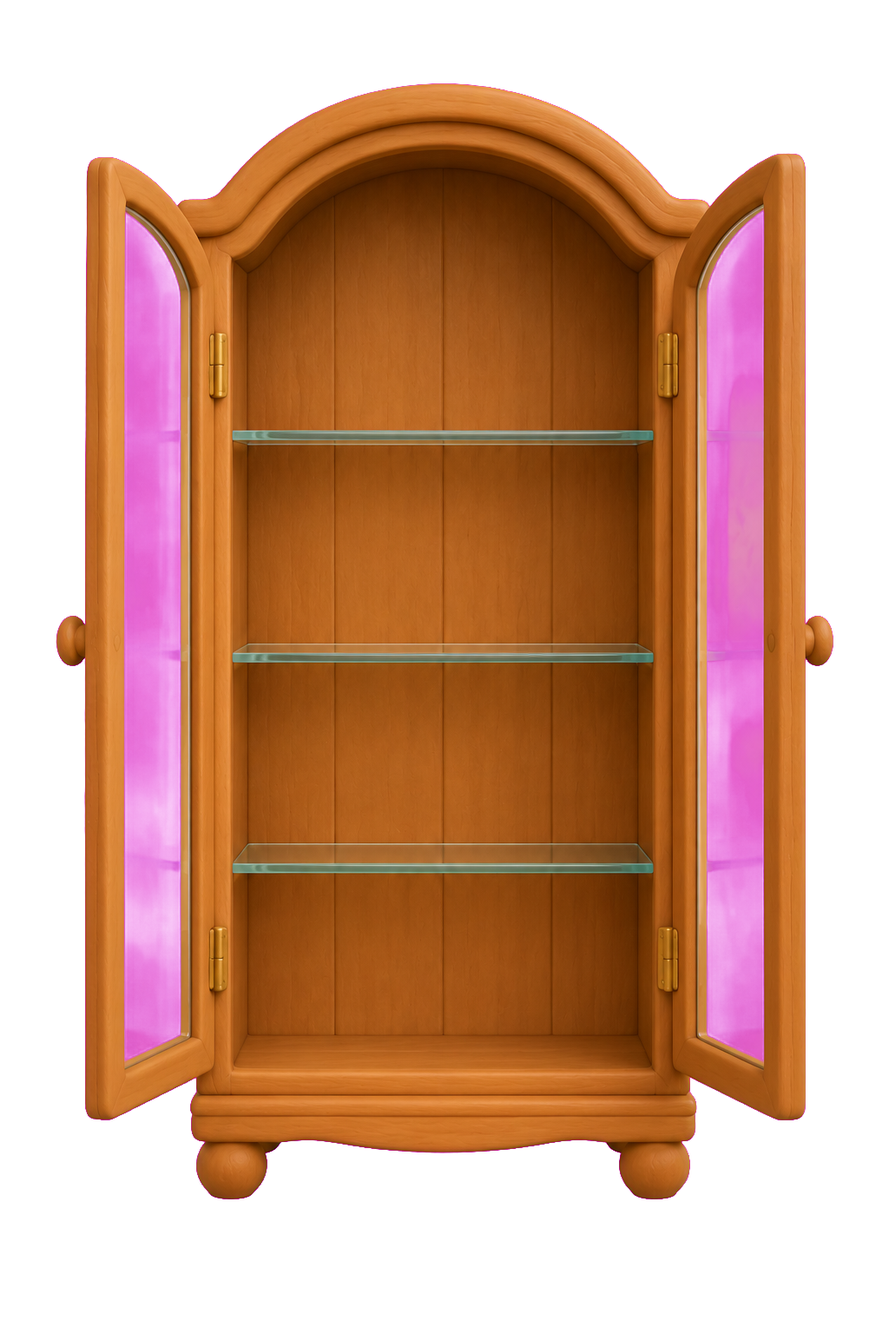
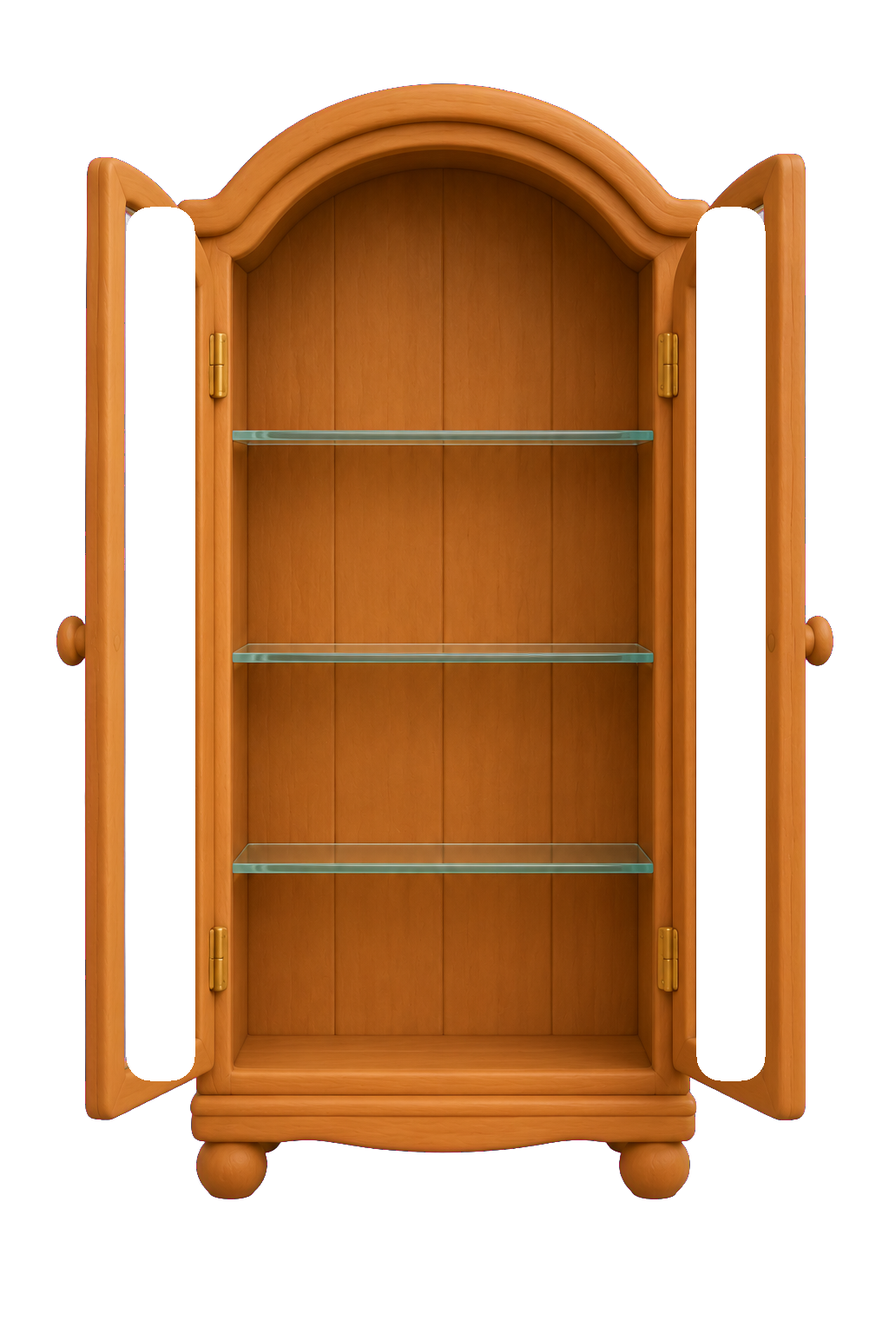
Mejora el aspecto del interior de la casa

Changed region(s): [[0.7812, 0.1562, 0.875, 0.8125], [0.125, 0.1562, 0.2188, 0.8125]]

diff --git a/src/world.js b/src/world.js
@@ -32,6 +32,10 @@
   function sky() {
     const p = phase(), [a, b] = SKY[p];
     $("#sky").style.background = `linear-gradient(${a}, ${b} 70%)`;
+    const houseView = $("#houseView"), houseSun = $("#houseWindowSun");
+    houseView.style.background = `linear-gradient(${a}, ${b} 70%)`;
+    houseSun.src = `art/valley/${p === "night" ? "moon" : "sun"}.webp`;
+    $(".houseWindowCloud").style.opacity = p === "night" ? "0.28" : "0.9";
     document.body.classList.toggle("night", p === "night");
     document.body.classList.toggle("lit", p === "night" || p === "dusk");
     const h = new Date().getHours() + new Date().getMinutes() / 60;
@@ -252,14 +256,23 @@
   const interior = $("#interior"), houseActors = $("#houseActors"), houseProps = $("#houseProps"), houseGallery = $("#houseGallery");
   let inHouse = false, houseX = 9, houseTarget = null, houseDone = null, houseWalk = false, houseLift = 0, houseScale = 1, houseClimb = null, houseSignature = "";
   const HOME_FURNITURE = [
-    { id: "bed", src: "house-bed.png", cx: 105, b: 170, w: 29, ar: 1671 / 941, kind: "floor" },
-    { id: "pot", src: "house-pot.png", cx: 249, b: 187, w: 8, ar: 1374 / 1145, kind: "floor" },
-    { id: "rug", src: "house-rug.png", cx: 197, b: 184, w: 34, ar: 2243 / 701, kind: "rug" },
-    { id: "curtains", src: "house-curtains.png", cx: 284, t: 31, w: 29, ar: 1536 / 1024, kind: "wall" },
-    { id: "lamp", src: "house-lamp.png", cx: 182, b: 151, w: 7, ar: 1024 / 1536, kind: "floor" },
-    { id: "cabinet", src: "house-cabinet.png", cx: 320, b: 189, w: 18, ar: 1024 / 1536, kind: "floor" },
-    { id: "trophy", src: "house-trophy.png", cx: 320, b: 189, w: 5.4, ar: 1199 / 1312, kind: "wall" },
+    { id: "bed", src: "house-bed.png", cx: 105, b: 170, w: 26, ar: 1671 / 941, kind: "floor" },
+    { id: "pot", src: "house-pot.png", cx: 178, b: 187, w: 6, ar: 1374 / 1145, kind: "floor" },
+    { id: "rug", src: "house-rug.png", cx: 197, b: 184, w: 29, ar: 2243 / 701, kind: "rug" },
+    { id: "curtains", src: "house-curtains.png", cx: 284, t: 31, w: 25, ar: 1536 / 1024, kind: "wall" },
+    { id: "lamp", src: "house-lamp.png", cx: 157, b: 151, w: 6, ar: 1024 / 1536, kind: "floor" },
+    { id: "cabinet", src: "house-cabinet.png", cx: 296, b: 189, w: 15, ar: 1024 / 1536, kind: "floor" },
+    { id: "trophy", src: "house-trophy.png", cx: 296, b: 189, w: 4.2, ar: 1199 / 1312, kind: "wall" },
   ];
+  function houseItemX(id) {
+    const d = HOME_FURNITURE.find((v) => v.id === id), p = (roomData().pos || {})[id] || {};
+    let x = d.kind === "wall" ? roomWallX(p.cx == null ? d.cx : p.cx) : roomX(p.cx == null ? d.cx : p.cx);
+    if (id === "rug") x = Math.min(x, 47);
+    if (id === "lamp") x = Math.min(x, 43);
+    if (id === "pot") x = Math.min(x, 62);
+    if (id === "cabinet") x = Math.min(x, 74);
+    return x;
+  }
   const HOUSE_PICS = [
     { id: "portrait", name: "Retrato", src: "art/pic-portrait.webp", origin: "Me llegó en un paquete cuando construimos la casa." },
     { id: "sprout", name: "El brote", src: "art/pic-sprout.webp", origin: "Lo conseguí cuando empezó a crecer nuestro primer brote." },
@@ -297,7 +310,7 @@
   ].map(([id, name, src, origin, rank]) => ({ id, name, src, origin, rank }));
   const EH = () => U(160);                                   // alto de Eko en el valle
   function placeEko() {
-    const h = EH(), w = h * 240 / 310;
+    const h = inHouse ? U(205) : EH(), w = h * 240 / 310;
     svg.style.width = w + "px"; svg.style.height = h + "px";
     eko.style.width = w + "px"; eko.style.height = h + "px";
   }
@@ -347,7 +360,7 @@
     const el = document.createElement("button"); el.type = "button"; el.className = "house-memento"; el.dataset.houseId = "sv:" + item.id; el.setAttribute("aria-label", item.name);
     const img = document.createElement("img"); img.src = item.src; img.alt = ""; img.draggable = false; el.appendChild(img);
     const row = Math.floor(i / 3), col = i % 3;
-    Object.assign(el.style, { left: cabinetBox.x + cabinetBox.w * (0.39 + col * 0.12) - W * 0.011 + "px", top: cabinetBox.y + cabinetBox.h * ([0.36, 0.61, 0.85][row]) - W * 0.026 + "px", width: W * 0.022 + "px", height: W * 0.022 + "px", zIndex: 16 });
+    Object.assign(el.style, { left: cabinetBox.x + cabinetBox.w * ([0.34, 0.5, 0.66][col]) - W * 0.009 + "px", top: cabinetBox.y + cabinetBox.h * ([0.32, 0.49, 0.66][row]) - W * 0.018 + "px", width: W * 0.018 + "px", height: W * 0.018 + "px", zIndex: 16 });
     houseProps.appendChild(el);
   }
   function makeGalleryButton(item, type) {
@@ -369,7 +382,13 @@
     const items = {};
     if (c.built) for (const d of HOME_FURNITURE) {
       if (!got.has(d.id) || off[d.id] || d.id === "trophy") continue;
-      const p = pos[d.id] || {}, x = d.kind === "wall" ? roomWallX(p.cx == null ? d.cx : p.cx) : roomX(p.cx == null ? d.cx : p.cx), bottom = roomBottom(p.b == null ? d.b : p.b), top = roomTop(p.t == null ? d.t : p.t);
+      const p = pos[d.id] || {}, savedX = p.cx == null ? d.cx : p.cx;
+      let x = d.kind === "wall" ? roomWallX(savedX) : roomX(savedX);
+      if (d.id === "rug") x = Math.min(x, 47);
+      if (d.id === "lamp") x = Math.min(x, 43);
+      if (d.id === "pot") x = Math.min(x, 62);
+      if (d.id === "cabinet") x = Math.min(x, 74);
+      const bottom = roomBottom(p.b == null ? d.b : p.b), top = roomTop(p.t == null ? d.t : p.t);
       const color = colors[d.id] || 0;
       items[d.id] = houseAsset(d.id, "house-" + d.id + ".png", x, d.w, d.ar, d.kind, { bottom: d.kind === "wall" ? null : bottom, top: d.kind === "wall" ? top : null, color, z: d.kind === "wall" ? 3 : d.id === "rug" ? 2 : 5 });
     }
@@ -381,11 +400,11 @@
     }
     const picById = new Map(HOUSE_PICS.map((p) => [p.id, p]));
     const hung = Array.isArray(c.hung) ? c.hung : c.pic ? [c.pic] : [];
-    const slots = [{ id: "frame", cx: 203, t: 24 }, { id: "pic1", cx: 120, t: 30 }, { id: "pic2", cx: 334, t: 26 }];
+    const slots = [{ id: "frame", cx: 145, t: 25 }, { id: "pic1", cx: 365, t: 25 }, { id: "pic2", cx: 385, t: 61 }];
     for (let i = 0; i < Math.min(3, hung.length); i++) {
       const pic = picById.get(hung[i]); if (!pic || !got.has("pic:" + pic.id)) continue;
-      const p = pos[slots[i].id] || {}, cx = roomWallX(p.cx == null ? slots[i].cx : p.cx), top = roomTop(p.t == null ? slots[i].t : p.t);
-      pictureAsset(pic, i, cx, top, 10.5);
+      const cx = roomWallX(slots[i].cx), top = roomTop(slots[i].t);
+      pictureAsset(pic, i, cx, top, 7.8);
     }
     const cabinet = items.cabinet;
     if (cabinet) {
@@ -407,16 +426,16 @@
   function openGallery() { renderGallery(); houseGallery.classList.add("on"); }
   function moveHouseTo(x, done) { houseTarget = clamp(x, 7, 94); houseDone = done || null; }
   function explainHouseItem(id) {
-    if (id === "cabinet") { moveHouseTo(roomX((roomData().pos || {}).cabinet?.cx || 320), openGallery); return; }
-    if (id === "bed") { moveHouseTo(roomX((roomData().pos || {}).bed?.cx || 105), () => say(pick(["Qué bien se está en mi camita", "Aquí me echo una siestecita", "Mi rincón favorito para descansar"]), 2400)); return; }
-    if (id === "lamp") { moveHouseTo(roomX((roomData().pos || {}).lamp?.cx || 182), () => say(pick(["Esta luz es perfecta para leer", "Me encanta mi lamparita", "Qué acogedor queda este rincón"]), 2200)); return; }
-    if (id === "pot") { moveHouseTo(roomX((roomData().pos || {}).pot?.cx || 249), () => say(pick(["Mi plantita está preciosa", "Hay que acordarse de regarla", "Las hojas nuevas son una monada"]), 2200)); return; }
-    if (id === "rug") { moveHouseTo(roomX((roomData().pos || {}).rug?.cx || 197), () => say("Esta alfombra es muy suave", 2000)); return; }
-    if (id === "curtains") { moveHouseTo(roomX((roomData().pos || {}).curtains?.cx || 284), () => say("Desde aquí entra una luz preciosa", 2200)); return; }
-    if (id === "trophy") { moveHouseTo(roomX((roomData().pos || {}).cabinet?.cx || 320), () => say("Mi trofeo, me acuerdo de cómo lo ganamos", 2300)); return; }
+    if (id === "cabinet") { moveHouseTo(houseItemX("cabinet"), openGallery); return; }
+    if (id === "bed") { moveHouseTo(houseItemX("bed"), () => say(pick(["Qué bien se está en mi camita", "Aquí me echo una siestecita", "Mi rincón favorito para descansar"]), 2400)); return; }
+    if (id === "lamp") { moveHouseTo(houseItemX("lamp"), () => say(pick(["Esta luz es perfecta para leer", "Me encanta mi lamparita", "Qué acogedor queda este rincón"]), 2200)); return; }
+    if (id === "pot") { moveHouseTo(houseItemX("pot"), () => say(pick(["Mi plantita está preciosa", "Hay que acordarse de regarla", "Las hojas nuevas son una monada"]), 2200)); return; }
+    if (id === "rug") { moveHouseTo(houseItemX("rug"), () => say("Esta alfombra es muy suave", 2000)); return; }
+    if (id === "curtains") { moveHouseTo(houseItemX("curtains"), () => say("Desde aquí entra una luz preciosa", 2200)); return; }
+    if (id === "trophy") { moveHouseTo(houseItemX("cabinet"), () => say("Mi trofeo, me acuerdo de cómo lo ganamos", 2300)); return; }
     if (id.startsWith("sv:")) {
       const item = HOUSE_SOUVENIRS.find((v) => v.id === id.slice(3)); if (!item) return;
-      moveHouseTo(roomX((roomData().pos || {}).cabinet?.cx || 320), () => say(`Me acuerdo de ${item.name}. ${item.origin}`, 3000)); return;
+      moveHouseTo(houseItemX("cabinet"), () => say(`Me acuerdo de ${item.name}. ${item.origin}`, 3000)); return;
     }
     if (id.startsWith("picture:")) {
       const pic = HOUSE_PICS.find((p) => p.id === id.slice(8)); if (!pic) return;
@@ -430,7 +449,7 @@
   function exitHouse() {
     if (!inHouse || houseTarget != null || houseClimb) return;
     moveHouseTo(7.5, () => {
-      inHouse = false; houseTarget = null; houseDone = null; houseGallery.classList.remove("on"); document.body.classList.remove("in-house"); interior.classList.remove("on");
+      inHouse = false; placeEko(); houseTarget = null; houseDone = null; houseGallery.classList.remove("on"); document.body.classList.remove("in-house"); interior.classList.remove("on");
       box.append(eko, bub, shd); E.x = house.ux - 560 * 1102 / 971 * 0.18; E.tx = null; E.then = null; E.entering = E.t; houseSignature = "";
       say(pick(["Ya estamos otra vez en el valle", "¡Qué bien se está en casa! ¿Paseamos?", "Vamos a dar una vuelta por el valle"]), 2500);
     });
@@ -459,7 +478,7 @@
     E.tx = null; E.then = null; E.exiting = E.t;
     say(pick(["¡A casa!", "Hogar, dulce hogar", "Vamos para dentro"]), 1400);
     setTimeout(() => {
-      E.exiting = 0; E.x = house.ux - 560 * 1102 / 971 * 0.18; inHouse = true; houseX = 8.5; houseTarget = null; houseDone = null; houseClimb = null;
+      E.exiting = 0; E.x = house.ux - 560 * 1102 / 971 * 0.18; inHouse = true; placeEko(); houseX = 8.5; houseTarget = null; houseDone = null; houseClimb = null;
       houseActors.append(eko, bub, shd); document.body.classList.add("in-house"); interior.classList.add("on"); renderHouse(true);
     }, 720);
   }
@@ -501,13 +520,13 @@
     E.ph += dt * (walking ? 9 : 0);
     if (inGarden() !== E.inG) { E.inG = inGarden(); if (E.inG && E.t > 2) { say(GD.seen ? pick(GL.hello) : `¡Mira! ¡Detrás de la niebla había un huerto! Será nuestro`, 3200); if (!GD.seen) { GD.seen = true; gSave(); } } }
     // Eko: pasea por el valle o por la habitación a pantalla completa.
-    const h = EH(), w = h * 240 / 310;
+    const h = inHouse ? U(205) : EH(), w = h * 240 / 310;
     let y = PATH(), sc = 1, op = 1;
     if (E.entering) { const q = clamp((E.t - E.entering) / 1.1, 0, 1); y = lerp(BACK() - U(6), PATH(), q); sc = lerp(0.82, 1, q); op = Math.min(1, q * 3); if (q >= 1) E.entering = 0; }
     if (E.exiting) { const q = clamp((E.t - E.exiting) / 1.1, 0, 1); y = lerp(PATH(), BACK() - U(6), q); sc = lerp(1, 0.82, q); op = 1 - clamp((q - 0.6) / 0.4, 0, 1); }
     const bob = walking ? Math.abs(Math.sin(E.ph)) * U(6) : Math.sin(E.t * 2) * U(1.5);
     if (inHouse) {
-      const floor = H * 0.91 + houseLift, hb = walking ? Math.abs(Math.sin(E.ph)) * U(5) : Math.sin(E.t * 2) * U(1.5);
+      const floor = H * 0.86 + houseLift, hb = walking ? Math.abs(Math.sin(E.ph)) * U(5) : Math.sin(E.t * 2) * U(1.5);
       Object.assign(eko.style, { left: W * houseX / 100 - (w * houseScale) / 2 + "px", top: floor - h * houseScale - hb + "px", transform: `scale(${houseScale})`, transformOrigin: "50% 100%", opacity: 1, zIndex: 8 });
       Object.assign(shd.style, { left: W * houseX / 100 - w * 0.42 + "px", top: floor - U(9) + "px", width: w * 0.84 + "px", height: U(18) + "px", opacity: 0.72 - Math.max(0, -houseLift / H) });
       Object.assign(bub.style, { left: W * houseX / 100 + "px", top: floor - h * houseScale - U(14) + "px", zIndex: 45 });

diff --git a/src/world.html b/src/world.html
@@ -56,32 +56,41 @@ body.night #sun{animation:none}
 #interior{position:fixed;inset:0;z-index:60;display:none;overflow:hidden;background:transparent}
 #interior.on{display:block;animation:houseIn .65s ease-out both}
 @keyframes houseIn{from{opacity:0;transform:scale(1.025)}to{opacity:1;transform:none}}
-#houseRoom{position:absolute;inset:0;width:100%;height:100%;object-fit:fill;pointer-events:none;user-select:none}
-#houseWallTint,#houseFloorTint{position:absolute;inset:0;pointer-events:none;mix-blend-mode:multiply;mask-image:url(art/house-room.png);mask-mode:alpha;mask-size:100% 100%;-webkit-mask-image:url(art/house-room.png);-webkit-mask-size:100% 100%}
+#houseView{position:absolute;left:39.7%;top:15.6%;width:20.6%;height:38.3%;overflow:hidden;z-index:0;background:#9CC9EE;transition:background 2s;clip-path:inset(0 round 46% 46% 2% 2% / 28% 28% 2% 2%)}
+#houseViewFar,#houseViewMid{position:absolute;left:-4%;right:-4%;background-repeat:repeat-x;background-position:center bottom;pointer-events:none}
+#houseViewFar{bottom:20%;height:46%;background-image:url(art/valley/hills-far.webp);background-size:auto 100%;opacity:.82}
+#houseViewMid{bottom:0;height:45%;background-image:url(art/valley/hills-mid.webp);background-size:auto 100%}
+#houseWindowSun{position:absolute;left:65%;top:9%;width:22%;aspect-ratio:1;object-fit:contain;filter:drop-shadow(0 0 9px rgba(255,214,120,.5));animation:houseSun 70s linear infinite}
+@keyframes houseSun{50%{transform:translate(-8px,4px)}}
+.houseWindowCloud{position:absolute;left:4%;top:10%;width:37%;height:auto;opacity:.88;filter:drop-shadow(0 2px 2px rgba(90,130,170,.2));animation:houseCloud 32s ease-in-out infinite alternate}
+@keyframes houseCloud{to{transform:translateX(20px)}}
+body.night #houseView{filter:brightness(.57) saturate(.8)}
+#houseRoom{position:absolute;inset:0;z-index:1;width:100%;height:100%;object-fit:fill;pointer-events:none;user-select:none}
+#houseWallTint,#houseFloorTint{position:absolute;inset:0;z-index:2;pointer-events:none;mix-blend-mode:multiply;mask-image:url(art/house-room.png);mask-mode:alpha;mask-size:100% 100%;-webkit-mask-image:url(art/house-room.png);-webkit-mask-size:100% 100%}
 #houseWallTint{clip-path:inset(0 0 24% 0);-webkit-clip-path:inset(0 0 24% 0)}
 #houseFloorTint{clip-path:inset(76% 0 0 0);-webkit-clip-path:inset(76% 0 0 0)}
-#houseProps{position:absolute;inset:0;pointer-events:none}
+#houseProps{position:absolute;inset:0;z-index:3;pointer-events:none}
 .house-item{position:absolute;display:block;border:0;padding:0;background:transparent;pointer-events:auto;cursor:pointer;transform:translateX(-50%);transform-origin:50% 100%}
 .house-item img{display:block;width:100%;height:100%;object-fit:fill;pointer-events:none;user-select:none}
 .house-item.floor{filter:drop-shadow(0 7px 7px rgba(70,45,25,.18))}
 .house-item.rug{filter:drop-shadow(0 4px 4px rgba(70,45,25,.15))}
 .house-item.wall{filter:drop-shadow(0 5px 7px rgba(60,35,20,.2))}
-.house-frame{position:absolute;pointer-events:auto;cursor:pointer;transform:translateX(-50%);filter:drop-shadow(0 5px 7px rgba(60,35,20,.2))}
+.house-frame{position:absolute;border:0;padding:0;background:transparent;appearance:none;pointer-events:auto;cursor:pointer;transform:translateX(-50%);filter:drop-shadow(0 5px 7px rgba(60,35,20,.2))}
 .house-frame img{position:absolute;inset:0;width:100%;height:100%;object-fit:fill;pointer-events:none}
 .house-frame .art{inset:19% 21%;width:58%;height:62%;object-fit:cover}
 .house-memento{position:absolute;display:grid;place-items:center;border:0;padding:0;background:transparent;cursor:pointer;pointer-events:auto;filter:drop-shadow(0 2px 2px rgba(60,35,20,.35))}
 .house-memento img{width:100%;height:100%;object-fit:contain;pointer-events:none}
-#houseActors{position:absolute;inset:0;pointer-events:none}
+#houseActors{position:absolute;inset:0;z-index:8;pointer-events:none}
 #houseActors #eko{z-index:8;pointer-events:auto}
 #houseActors #ekoShadow{z-index:7}
 #houseActors #bub{z-index:10}
 #houseExit{position:absolute;left:2.2%;top:52%;width:7.5%;height:30%;border:0;background:transparent;cursor:pointer;z-index:9;opacity:0}
 #houseExit:focus-visible,#houseStairs:focus-visible{outline:3px solid #fff;outline-offset:3px;opacity:.7}
-#houseStairs{position:absolute;right:3.2%;bottom:23%;width:21%;height:44%;border:0;padding:0;background:transparent;cursor:pointer;z-index:5}
-#houseStairs .step{position:absolute;left:5%;bottom:0;width:74%;height:12%;border-radius:10px 5px 2px 2px;background:linear-gradient(155deg,#dbad78,#b47a4c);border:2px solid #9a6b42;box-shadow:inset 0 4px 0 rgba(255,238,200,.35),0 3px 5px rgba(50,30,20,.16)}
-#houseStairs .step:nth-child(2){transform:translate(11%,-62%)}#houseStairs .step:nth-child(3){transform:translate(22%,-124%)}#houseStairs .step:nth-child(4){transform:translate(33%,-186%)}#houseStairs .step:nth-child(5){transform:translate(44%,-248%)}#houseStairs .step:nth-child(6){transform:translate(55%,-310%)}
-#houseStairs .rail{position:absolute;left:10%;bottom:14%;width:76%;height:7%;border-radius:12px;background:#9a6b42;transform:rotate(-38deg);transform-origin:left center;box-shadow:0 3px 4px rgba(50,30,20,.2)}
-#houseStairs .landing{position:absolute;right:0;top:1%;width:30%;height:52%;border:5px solid #9a6b42;border-radius:20px 20px 7px 7px;background:linear-gradient(90deg,#bd8958,#dda97a 45%,#af7548);box-shadow:inset 5px 0 rgba(255,228,185,.3),0 5px 9px rgba(50,30,20,.18)}
+#houseStairs{position:absolute;right:2.4%;bottom:21.5%;width:14.5%;height:42%;border:0;padding:0;background:transparent;cursor:pointer;z-index:5}
+#houseStairs .step{position:absolute;left:0;bottom:0;width:72%;height:11%;border-radius:9px 4px 2px 2px;background:linear-gradient(155deg,#dbad78,#b47a4c);border:2px solid #9a6b42;box-shadow:inset 0 4px 0 rgba(255,238,200,.35),0 3px 5px rgba(50,30,20,.16)}
+#houseStairs .step:nth-child(2){transform:translate(14%,-52%)}#houseStairs .step:nth-child(3){transform:translate(28%,-104%)}#houseStairs .step:nth-child(4){transform:translate(42%,-156%)}#houseStairs .step:nth-child(5){transform:translate(56%,-208%)}#houseStairs .step:nth-child(6){transform:translate(70%,-260%)}
+#houseStairs .rail{position:absolute;left:7%;bottom:14%;width:78%;height:6%;border-radius:12px;background:#9a6b42;transform:rotate(-37deg);transform-origin:left center;box-shadow:0 3px 4px rgba(50,30,20,.2)}
+#houseStairs .landing{position:absolute;right:0;top:0;width:31%;height:45%;border:5px solid #9a6b42;border-radius:20px 20px 7px 7px;background:linear-gradient(90deg,#bd8958,#dda97a 45%,#af7548);box-shadow:inset 5px 0 rgba(255,228,185,.3),0 5px 9px rgba(50,30,20,.18)}
 #houseStairs .landing:after{content:"";position:absolute;left:14%;right:14%;top:12%;bottom:9%;border:3px solid rgba(121,77,45,.55);border-radius:12px 12px 4px 4px}
 #houseGallery{position:absolute;inset:8% 12%;z-index:20;display:none;overflow:auto;padding:3.5rem 2rem 2rem;border:10px solid #9a6b42;border-radius:32px;background:rgba(250,244,232,.97);box-shadow:0 18px 60px rgba(45,30,20,.4);grid-template-columns:repeat(auto-fill,minmax(105px,1fr));gap:18px;align-content:start}
 #houseGallery.on{display:grid}
@@ -95,7 +104,7 @@ body.in-house #back,body.in-house #title{display:none}
 <div class="layer" id="far"></div><div class="layer" id="mid"></div>
 <div class="layer" id="ground"></div>
 <div id="world"><div id="backL"></div><div id="ekoBox"></div><div id="frontL"></div></div>
-<div id="interior" aria-label="Interior de la casa"><img id="houseRoom" src="art/house-room.png" alt="" draggable="false"><div id="houseWallTint"></div><div id="houseFloorTint"></div><div id="houseProps"></div><button id="houseExit" aria-label="Salir al valle por la puerta"></button><button id="houseStairs" aria-label="Subir las escaleras"><span class="step"></span><span class="step"></span><span class="step"></span><span class="step"></span><span class="step"></span><span class="step"></span><span class="rail"></span><span class="landing"></span></button><div id="houseGallery" aria-label="Recuerdos y cuadros"></div><button id="houseGalleryClose" aria-label="Cerrar vitrina">×</button><div id="houseActors"></div></div>
+<div id="interior" aria-label="Interior de la casa"><div id="houseView" aria-hidden="true"><img id="houseWindowSun" src="art/valley/sun.webp" alt=""><img class="houseWindowCloud" src="art/valley/cloud.webp" alt=""><div id="houseViewFar"></div><div id="houseViewMid"></div></div><img id="houseRoom" src="art/house-room.png" alt="" draggable="false"><div id="houseWallTint"></div><div id="houseFloorTint"></div><div id="houseProps"></div><button id="houseExit" aria-label="Salir al valle por la puerta"></button><button id="houseStairs" aria-label="Subir las escaleras"><span class="step"></span><span class="step"></span><span class="step"></span><span class="step"></span><span class="step"></span><span class="step"></span><span class="rail"></span><span class="landing"></span></button><div id="houseGallery" aria-label="Recuerdos y cuadros"></div><button id="houseGalleryClose" aria-label="Cerrar vitrina">×</button><div id="houseActors"></div></div>
 <button id="back">← Volver a casa</button><div id="title"></div><div id="cover"></div>
 <div id="ekoTpl" style="display:none">
     <svg id="mochi" viewBox="-120 -125 240 310" aria-label="Eko">

diff --git a/tools/world.tpl.html b/tools/world.tpl.html
@@ -56,32 +56,41 @@ body.night #sun{animation:none}
 #interior{position:fixed;inset:0;z-index:60;display:none;overflow:hidden;background:transparent}
 #interior.on{display:block;animation:houseIn .65s ease-out both}
 @keyframes houseIn{from{opacity:0;transform:scale(1.025)}to{opacity:1;transform:none}}
-#houseRoom{position:absolute;inset:0;width:100%;height:100%;object-fit:fill;pointer-events:none;user-select:none}
-#houseWallTint,#houseFloorTint{position:absolute;inset:0;pointer-events:none;mix-blend-mode:multiply;mask-image:url(art/house-room.png);mask-mode:alpha;mask-size:100% 100%;-webkit-mask-image:url(art/house-room.png);-webkit-mask-size:100% 100%}
+#houseView{position:absolute;left:39.7%;top:15.6%;width:20.6%;height:38.3%;overflow:hidden;z-index:0;background:#9CC9EE;transition:background 2s;clip-path:inset(0 round 46% 46% 2% 2% / 28% 28% 2% 2%)}
+#houseViewFar,#houseViewMid{position:absolute;left:-4%;right:-4%;background-repeat:repeat-x;background-position:center bottom;pointer-events:none}
+#houseViewFar{bottom:20%;height:46%;background-image:url(art/valley/hills-far.webp);background-size:auto 100%;opacity:.82}
+#houseViewMid{bottom:0;height:45%;background-image:url(art/valley/hills-mid.webp);background-size:auto 100%}
+#houseWindowSun{position:absolute;left:65%;top:9%;width:22%;aspect-ratio:1;object-fit:contain;filter:drop-shadow(0 0 9px rgba(255,214,120,.5));animation:houseSun 70s linear infinite}
+@keyframes houseSun{50%{transform:translate(-8px,4px)}}
+.houseWindowCloud{position:absolute;left:4%;top:10%;width:37%;height:auto;opacity:.88;filter:drop-shadow(0 2px 2px rgba(90,130,170,.2));animation:houseCloud 32s ease-in-out infinite alternate}
+@keyframes houseCloud{to{transform:translateX(20px)}}
+body.night #houseView{filter:brightness(.57) saturate(.8)}
+#houseRoom{position:absolute;inset:0;z-index:1;width:100%;height:100%;object-fit:fill;pointer-events:none;user-select:none}
+#houseWallTint,#houseFloorTint{position:absolute;inset:0;z-index:2;pointer-events:none;mix-blend-mode:multiply;mask-image:url(art/house-room.png);mask-mode:alpha;mask-size:100% 100%;-webkit-mask-image:url(art/house-room.png);-webkit-mask-size:100% 100%}
 #houseWallTint{clip-path:inset(0 0 24% 0);-webkit-clip-path:inset(0 0 24% 0)}
 #houseFloorTint{clip-path:inset(76% 0 0 0);-webkit-clip-path:inset(76% 0 0 0)}
-#houseProps{position:absolute;inset:0;pointer-events:none}
+#houseProps{position:absolute;inset:0;z-index:3;pointer-events:none}
 .house-item{position:absolute;display:block;border:0;padding:0;background:transparent;pointer-events:auto;cursor:pointer;transform:translateX(-50%);transform-origin:50% 100%}
 .house-item img{display:block;width:100%;height:100%;object-fit:fill;pointer-events:none;user-select:none}
 .house-item.floor{filter:drop-shadow(0 7px 7px rgba(70,45,25,.18))}
 .house-item.rug{filter:drop-shadow(0 4px 4px rgba(70,45,25,.15))}
 .house-item.wall{filter:drop-shadow(0 5px 7px rgba(60,35,20,.2))}
-.house-frame{position:absolute;pointer-events:auto;cursor:pointer;transform:translateX(-50%);filter:drop-shadow(0 5px 7px rgba(60,35,20,.2))}
+.house-frame{position:absolute;border:0;padding:0;background:transparent;appearance:none;pointer-events:auto;cursor:pointer;transform:translateX(-50%);filter:drop-shadow(0 5px 7px rgba(60,35,20,.2))}
 .house-frame img{position:absolute;inset:0;width:100%;height:100%;object-fit:fill;pointer-events:none}
 .house-frame .art{inset:19% 21%;width:58%;height:62%;object-fit:cover}
 .house-memento{position:absolute;display:grid;place-items:center;border:0;padding:0;background:transparent;cursor:pointer;pointer-events:auto;filter:drop-shadow(0 2px 2px rgba(60,35,20,.35))}
 .house-memento img{width:100%;height:100%;object-fit:contain;pointer-events:none}
-#houseActors{position:absolute;inset:0;pointer-events:none}
+#houseActors{position:absolute;inset:0;z-index:8;pointer-events:none}
 #houseActors #eko{z-index:8;pointer-events:auto}
 #houseActors #ekoShadow{z-index:7}
 #houseActors #bub{z-index:10}
 #houseExit{position:absolute;left:2.2%;top:52%;width:7.5%;height:30%;border:0;background:transparent;cursor:pointer;z-index:9;opacity:0}
 #houseExit:focus-visible,#houseStairs:focus-visible{outline:3px solid #fff;outline-offset:3px;opacity:.7}
-#houseStairs{position:absolute;right:3.2%;bottom:23%;width:21%;height:44%;border:0;padding:0;background:transparent;cursor:pointer;z-index:5}
-#houseStairs .step{position:absolute;left:5%;bottom:0;width:74%;height:12%;border-radius:10px 5px 2px 2px;background:linear-gradient(155deg,#dbad78,#b47a4c);border:2px solid #9a6b42;box-shadow:inset 0 4px 0 rgba(255,238,200,.35),0 3px 5px rgba(50,30,20,.16)}
-#houseStairs .step:nth-child(2){transform:translate(11%,-62%)}#houseStairs .step:nth-child(3){transform:translate(22%,-124%)}#houseStairs .step:nth-child(4){transform:translate(33%,-186%)}#houseStairs .step:nth-child(5){transform:translate(44%,-248%)}#houseStairs .step:nth-child(6){transform:translate(55%,-310%)}
-#houseStairs .rail{position:absolute;left:10%;bottom:14%;width:76%;height:7%;border-radius:12px;background:#9a6b42;transform:rotate(-38deg);transform-origin:left center;box-shadow:0 3px 4px rgba(50,30,20,.2)}
-#houseStairs .landing{position:absolute;right:0;top:1%;width:30%;height:52%;border:5px solid #9a6b42;border-radius:20px 20px 7px 7px;background:linear-gradient(90deg,#bd8958,#dda97a 45%,#af7548);box-shadow:inset 5px 0 rgba(255,228,185,.3),0 5px 9px rgba(50,30,20,.18)}
+#houseStairs{position:absolute;right:2.4%;bottom:21.5%;width:14.5%;height:42%;border:0;padding:0;background:transparent;cursor:pointer;z-index:5}
+#houseStairs .step{position:absolute;left:0;bottom:0;width:72%;height:11%;border-radius:9px 4px 2px 2px;background:linear-gradient(155deg,#dbad78,#b47a4c);border:2px solid #9a6b42;box-shadow:inset 0 4px 0 rgba(255,238,200,.35),0 3px 5px rgba(50,30,20,.16)}
+#houseStairs .step:nth-child(2){transform:translate(14%,-52%)}#houseStairs .step:nth-child(3){transform:translate(28%,-104%)}#houseStairs .step:nth-child(4){transform:translate(42%,-156%)}#houseStairs .step:nth-child(5){transform:translate(56%,-208%)}#houseStairs .step:nth-child(6){transform:translate(70%,-260%)}
+#houseStairs .rail{position:absolute;left:7%;bottom:14%;width:78%;height:6%;border-radius:12px;background:#9a6b42;transform:rotate(-37deg);transform-origin:left center;box-shadow:0 3px 4px rgba(50,30,20,.2)}
+#houseStairs .landing{position:absolute;right:0;top:0;width:31%;height:45%;border:5px solid #9a6b42;border-radius:20px 20px 7px 7px;background:linear-gradient(90deg,#bd8958,#dda97a 45%,#af7548);box-shadow:inset 5px 0 rgba(255,228,185,.3),0 5px 9px rgba(50,30,20,.18)}
 #houseStairs .landing:after{content:"";position:absolute;left:14%;right:14%;top:12%;bottom:9%;border:3px solid rgba(121,77,45,.55);border-radius:12px 12px 4px 4px}
 #houseGallery{position:absolute;inset:8% 12%;z-index:20;display:none;overflow:auto;padding:3.5rem 2rem 2rem;border:10px solid #9a6b42;border-radius:32px;background:rgba(250,244,232,.97);box-shadow:0 18px 60px rgba(45,30,20,.4);grid-template-columns:repeat(auto-fill,minmax(105px,1fr));gap:18px;align-content:start}
 #houseGallery.on{display:grid}
@@ -95,7 +104,7 @@ body.in-house #back,body.in-house #title{display:none}
 <div class="layer" id="far"></div><div class="layer" id="mid"></div>
 <div class="layer" id="ground"></div>
 <div id="world"><div id="backL"></div><div id="ekoBox"></div><div id="frontL"></div></div>
-<div id="interior" aria-label="Interior de la casa"><img id="houseRoom" src="art/house-room.png" alt="" draggable="false"><div id="houseWallTint"></div><div id="houseFloorTint"></div><div id="houseProps"></div><button id="houseExit" aria-label="Salir al valle por la puerta"></button><button id="houseStairs" aria-label="Subir las escaleras"><span class="step"></span><span class="step"></span><span class="step"></span><span class="step"></span><span class="step"></span><span class="step"></span><span class="rail"></span><span class="landing"></span></button><div id="houseGallery" aria-label="Recuerdos y cuadros"></div><button id="houseGalleryClose" aria-label="Cerrar vitrina">×</button><div id="houseActors"></div></div>
+<div id="interior" aria-label="Interior de la casa"><div id="houseView" aria-hidden="true"><img id="houseWindowSun" src="art/valley/sun.webp" alt=""><img class="houseWindowCloud" src="art/valley/cloud.webp" alt=""><div id="houseViewFar"></div><div id="houseViewMid"></div></div><img id="houseRoom" src="art/house-room.png" alt="" draggable="false"><div id="houseWallTint"></div><div id="houseFloorTint"></div><div id="houseProps"></div><button id="houseExit" aria-label="Salir al valle por la puerta"></button><button id="houseStairs" aria-label="Subir las escaleras"><span class="step"></span><span class="step"></span><span class="step"></span><span class="step"></span><span class="step"></span><span class="step"></span><span class="rail"></span><span class="landing"></span></button><div id="houseGallery" aria-label="Recuerdos y cuadros"></div><button id="houseGalleryClose" aria-label="Cerrar vitrina">×</button><div id="houseActors"></div></div>
 <button id="back">← Volver a casa</button><div id="title"></div><div id="cover"></div>
 <div id="ekoTpl" style="display:none">
 <!--SVG-->
